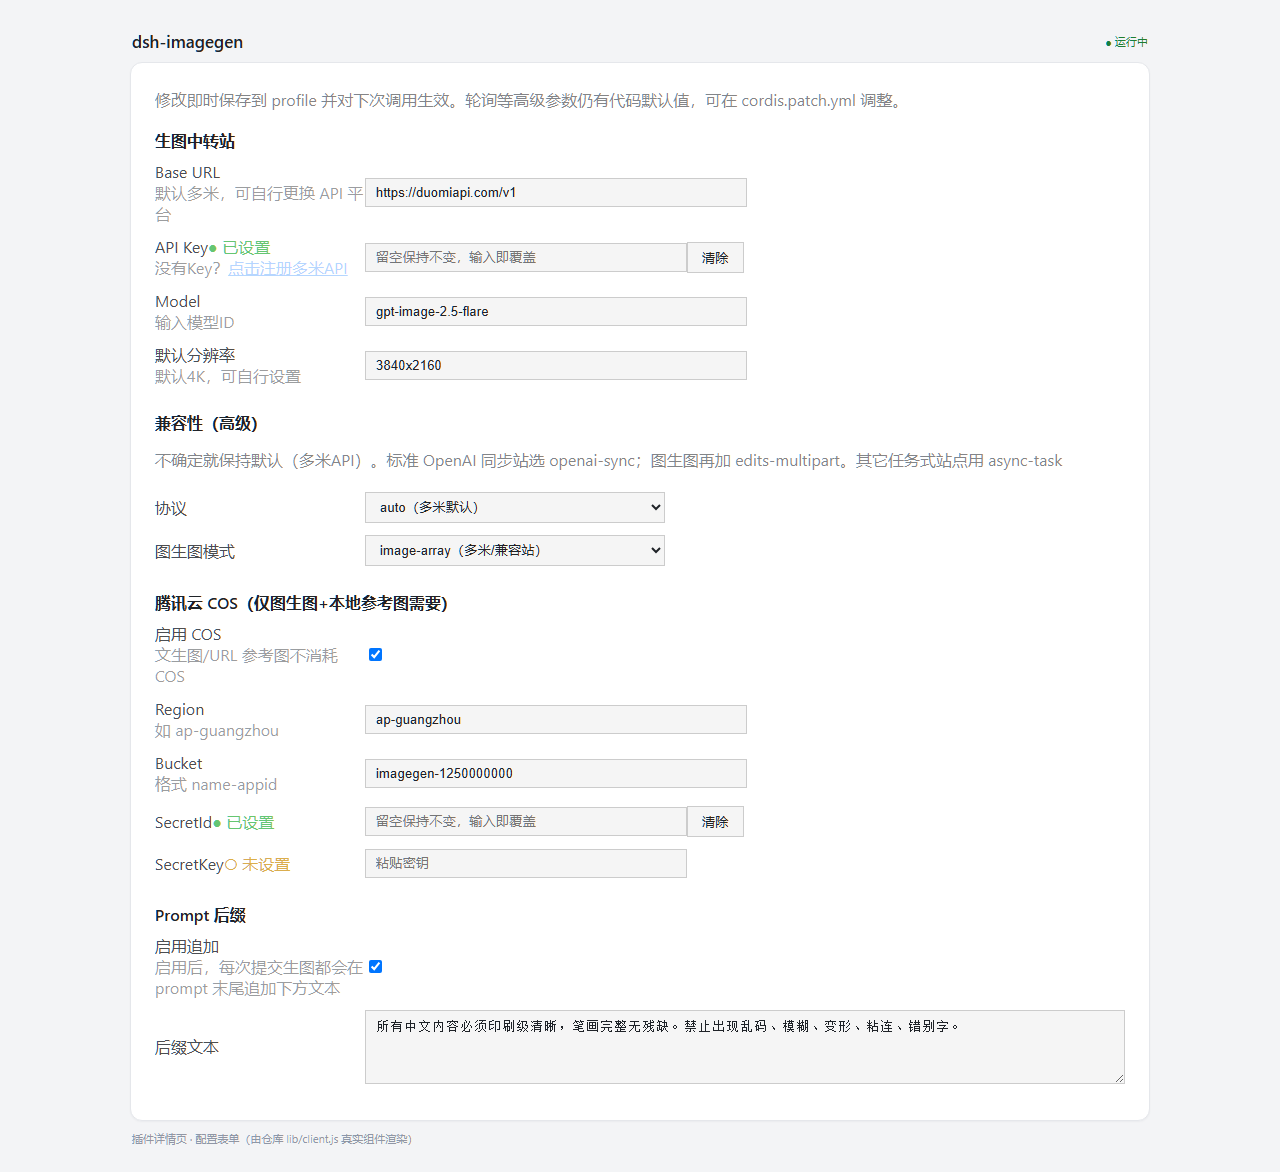
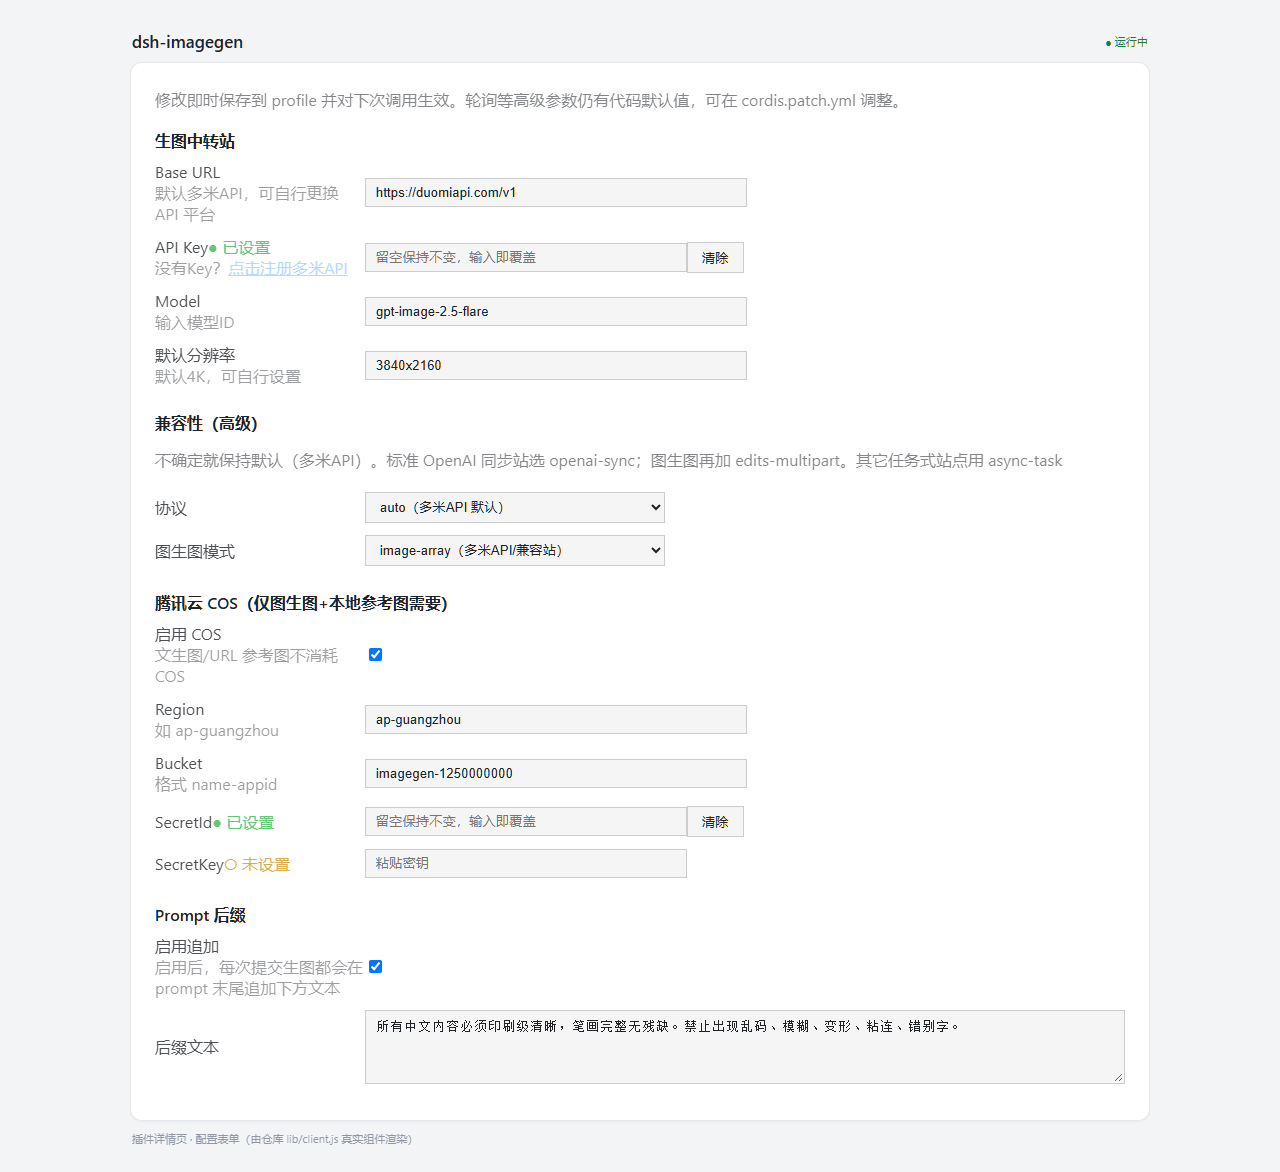
fix: v0.7.7 - complete 多米API settings labels
Restore the missing API suffix in visible settings labels and configuration descriptions. Keep the duomiapi.com domain and duomi-async config value unchanged; regenerate the screenshot.

diff --git a/lib/config.js b/lib/config.js
@@ -10,12 +10,12 @@ export const Config = z.object({
       .string()
       .volatile()
       .default("https://duomiapi.com/v1")
-      .description("生图站 Base URL，需兼容 /images/generations；默认多米，其它站填自己的地址。没有多米账号？点此注册：https://duomiapi.com/user/register?cps=S9hKE2Oq"),
+      .description("生图站 Base URL，需兼容 /images/generations；默认多米API，其它站填自己的地址。没有多米API账号？点此注册：https://duomiapi.com/user/register?cps=S9hKE2Oq"),
     apiKey: z
       .string()
       .role("secret")
       .volatile()
-      .description("生图站 API Key（直接填；留空则回退到环境变量 IMAGEGEN_API_KEY）。还没有账号？免注册开通多米：https://duomiapi.com/user/register?cps=S9hKE2Oq"),
+      .description("生图站 API Key（直接填；留空则回退到环境变量 IMAGEGEN_API_KEY）。还没有账号？免注册开通多米API：https://duomiapi.com/user/register?cps=S9hKE2Oq"),
     // ↓ 以下为普通配置字段（不进表单；如需修改直接编辑 cordis.patch.yml）
     apiKeyEnv: z
       .string()
@@ -26,17 +26,17 @@ export const Config = z.object({
       .string()
       .volatile()
       .default("gpt-image-2.5-flare")
-      .description("生图模型 id。默认 gpt-image-2.5-flare（多米，速度较快）；其它站按实际模型填。多米已知还有 gpt-image-2 / gpt-image-2.5-sunburst（支持 1k/2k/4k，分辨率不分档收费）。"),
+      .description("生图模型 id。默认 gpt-image-2.5-flare（多米API，速度较快）；其它站按实际模型填。多米API已知还有 gpt-image-2 / gpt-image-2.5-sunburst（支持 1k/2k/4k，分辨率不分档收费）。"),
     defaultSize: z
       .string()
       .volatile()
       .default("3840x2160")
-      .description("兜底分辨率，需与所选模型支持的尺寸匹配。默认 4K（多米）；标准 OpenAI 等站点请改成模型支持的尺寸。"),
+      .description("兜底分辨率，需与所选模型支持的尺寸匹配。默认 4K（多米API）；标准 OpenAI 等站点请改成模型支持的尺寸。"),
     protocol: z
       .union([z.const("auto"), z.const("openai-sync"), z.const("async-task"), z.const("duomi-async")])
       .volatile()
       .default("auto")
-      .description("auto：多米优先自动判定；标准 OpenAI 同步站用 openai-sync；任务式站点用 async-task（duomi-async 是兼容别名）"),
+      .description("auto：多米API 优先自动判定；标准 OpenAI 同步站用 openai-sync；任务式站点用 async-task（duomi-async 是兼容别名）"),
     taskPath: z
       .string()
       .default("/tasks/{id}")
@@ -45,7 +45,7 @@ export const Config = z.object({
       .union([z.const("image-array"), z.const("edits-multipart")])
       .volatile()
       .default("image-array")
-      .description("图生图传参：image-array 用 generations 传 image:[url]（多米/兼容站）；edits-multipart 走 /edits 传文件（标准 OpenAI）"),
+      .description("图生图传参：image-array 用 generations 传 image:[url]（多米API/兼容站）；edits-multipart 走 /edits 传文件（标准 OpenAI）"),
     // 提交后先静默等待的时间：服务端出图普遍 ≥55 秒，立即轮询纯属空转
     initialPollDelayMs: z.number().step(1000).min(0).max(180000).default(30000),
     // 首查之后的轮询间隔（会轻微退避到 25 秒封顶）

diff --git a/lib/client.js b/lib/client.js
@@ -134,7 +134,7 @@ window.__ModuleLoader__.load({
 				jsx("p", { style: hintStyle, children: "修改即时保存到 profile 并对下次调用生效。轮询等高级参数仍有代码默认值，可在 cordis.patch.yml 调整。" }),
 
 				jsx("div", { style: sectionTitle, children: "生图中转站" }),
-				jsx(F, { label: "Base URL", path: ["provider", "baseUrl"], value: get("provider", "baseUrl"), hint: "默认多米，可自行更换 API 平台" }),
+				jsx(F, { label: "Base URL", path: ["provider", "baseUrl"], value: get("provider", "baseUrl"), hint: "默认多米API，可自行更换 API 平台" }),
 				jsx(SecretField, { label: "API Key", path: ["provider", "apiKey"], isSet: secretSet(["provider", "apiKey"]), onCommit: set, onClear: unset, disabled: dis,
 					hint: jsxs("span", { children: [
 						"没有Key？",
@@ -148,7 +148,7 @@ window.__ModuleLoader__.load({
 				jsx(SelectField, {
 					label: "协议", path: ["provider", "protocol"], value: protocol, onCommit: set, disabled: dis,
 					options: [
-						{ value: "auto", label: "auto（多米默认）" },
+						{ value: "auto", label: "auto（多米API 默认）" },
 						{ value: "openai-sync", label: "openai-sync（标准 OpenAI 同步）" },
 						{ value: "async-task", label: "async-task（任务式）" },
 					],
@@ -156,7 +156,7 @@ window.__ModuleLoader__.load({
 				jsx(SelectField, {
 					label: "图生图模式", path: ["provider", "img2imgMode"], value: img2imgMode, onCommit: set, disabled: dis,
 					options: [
-						{ value: "image-array", label: "image-array（多米/兼容站）" },
+						{ value: "image-array", label: "image-array（多米API/兼容站）" },
 						{ value: "edits-multipart", label: "edits-multipart（标准 OpenAI）" },
 					],
 				}),

diff --git a/README.md b/README.md
@@ -71,7 +71,7 @@ dsh plugin --profile <你的profile名> add github:say007go/dsh-imagegen
 
 | 分组 | 字段 | 说明 |
 |------|------|------|
-| 生图接口 | Base URL | 默认多米，可自行更换 API 平台 |
+| 生图接口 | Base URL | 默认多米API，可自行更换 API 平台 |
 | | API Key | 没有 Key？[点击注册多米API](https://duomiapi.com/user/register?cps=S9hKE2Oq) |
 | | Model | 输入模型 ID，默认 `gpt-image-2.5-flare`（速度较快），也可换其他模型 |
 | | 默认分辨率 | 默认 4K，可自行设置 |

diff --git a/CHANGELOG.md b/CHANGELOG.md
@@ -2,6 +2,13 @@
 
 本项目遵循 [语义化版本](https://semver.org/lang/zh-CN/)。0.x 阶段：`minor` 表示破坏性变更，`patch` 表示修复。
 
+## [0.7.7] - 2026-10-27
+
+### 修复
+
+- 设置界面文案补全为“多米API”：Base URL 提示、协议默认项、图生图模式选项及配置说明统一。
+- 仅改展示文案；`https://duomiapi.com` 域名、`duomi-async` 配置值和内部协议名保持不变。
+
 ## [0.7.6] - 2026-10-27
 
 ### 变更
